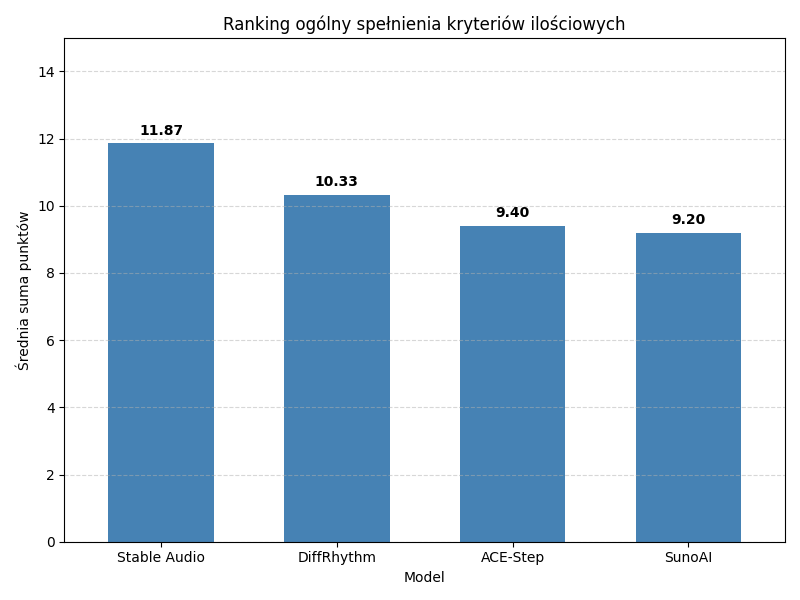
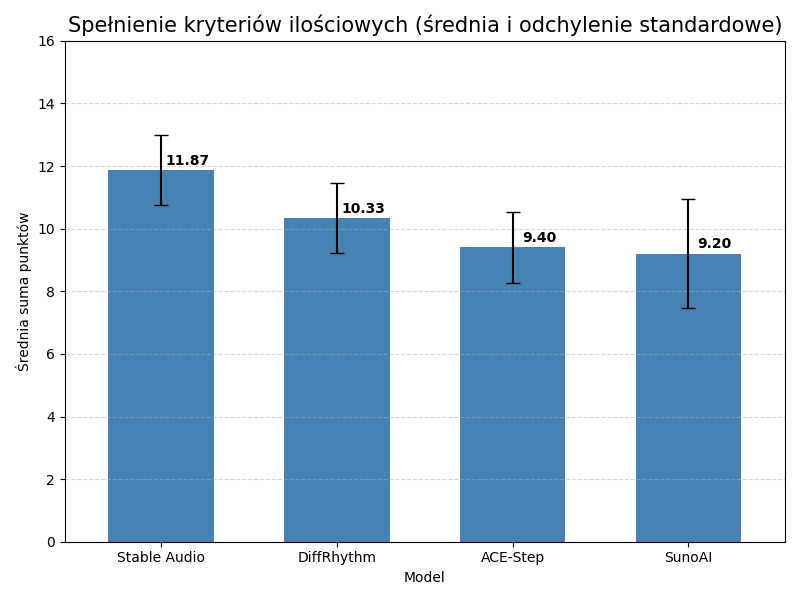
Update wykresów dla czytelności oraz std do słupków średnich

diff --git a/Wykresy.py b/Wykresy.py
@@ -35,10 +35,15 @@ def plot_global_pie_chart(df):
     counts = df.iloc[:, 1:].sum(axis=1)
     labels = df.iloc[:, 0]
     
-    plt.figure(figsize=(8, 8))
-    plt.pie(counts, labels=labels, autopct='%1.1f%%', colors=COLORS_LIKERT, startangle=140)
+    plt.figure(figsize=(4, 4))
+    plt.pie(counts, 
+            labels=labels, 
+            autopct='%1.1f%%', 
+            colors=COLORS_LIKERT, 
+            startangle=140,
+            textprops={'fontsize': 12})
     plt.axis('equal')
-    plt.title('Globalny rozkład ocen')
+    plt.title('Globalny rozkład ocen', fontsize=14, pad=20)
     plt.tight_layout()
     plt.show()
 
@@ -76,17 +81,20 @@ def plot_radar_chart(df_metrics):
     avg_scores = df_radar.groupby(['Aplikacja', 'Kryterium'])['Srednia'].mean().reset_index()
     
     categories = list(avg_scores['Kryterium'].unique())
+    categories.sort(reverse=True)
     N = len(categories)
     
     angles = [n / float(N) * 2 * pi for n in range(N)]
     angles += angles[:1]
     
-    plt.figure(figsize=(10, 10))
+    plt.figure(figsize=(8, 8))
     ax = plt.subplot(111, polar=True)
     
-    plt.xticks(angles[:-1], categories, color='grey', size=10)
-    ax.set_rlabel_position(0)
-    plt.yticks([1, 2, 3, 4, 5], ["1","2","3","4","5"], color="grey", size=7)
+    plt.xticks(angles[:-1], categories, color='black', size=14, fontweight='bold')
+    ax.tick_params(axis='x', pad=10)
+
+    ax.set_rlabel_position(30)
+    plt.yticks([1, 2, 3, 4, 5], ["1","2","3","4","5"], color="grey", size=10)
     plt.ylim(0, 5)
     
     apps = avg_scores['Aplikacja'].unique()
@@ -99,8 +107,8 @@ def plot_radar_chart(df_metrics):
         ax.plot(angles, values, linewidth=2, linestyle='solid', label=app, color=COLORS_APPS[i % len(COLORS_APPS)])
         ax.fill(angles, values, color=COLORS_APPS[i % len(COLORS_APPS)], alpha=0.1)
     
-    plt.legend(loc='upper right', bbox_to_anchor=(0.1, 0.1))
-    plt.title('Profil jakościowy aplikacji (średnie)')
+    plt.legend(loc='upper right', bbox_to_anchor=(1, -0.1), ncol=len(apps), fontsize=11)
+    plt.title('Profil jakościowy aplikacji (średnie)', fontsize=20, pad=15)
     plt.tight_layout()
     plt.show()
 

diff --git a/Wykresy_skrypt.py b/Wykresy_skrypt.py
@@ -28,20 +28,28 @@ def analyze_and_plot(df):
     plt.show()
 
     # --- Ranking slupkowy ---
+    df_stats = df.groupby('Model')['SUMA (0-14)'].agg(['mean', 'std'])
+    df_stats = df_stats.sort_values(by='mean', ascending=False)
+
     plt.figure(figsize=(8, 6))
-    ax = df_total.plot(kind='bar', color='#4682B4', width=0.6)
+    ax = df_stats['mean'].plot(kind='bar', 
+                               yerr=df_stats['std'], 
+                               capsize=5, 
+                               color='#4682B4', 
+                               width=0.6,
+                               rot=0)
     
-    plt.title('Ranking ogólny spełnienia kryteriów ilościowych')
+    plt.title('Spełnienie kryteriów ilościowych (średnia i odchylenie standardowe)', fontsize=15)
     plt.ylabel('Średnia suma punktów')
     plt.xlabel('Model')
-    plt.ylim(0, 15)
+    plt.ylim(0, 16)
     plt.grid(axis='y', linestyle='--', alpha=0.5)
     plt.xticks(rotation=0)
     
     for p in ax.patches:
         ax.annotate(f'{p.get_height():.2f}', 
                     (p.get_x() + p.get_width() / 2., p.get_height()),
-                    ha='center', va='center', xytext=(0, 9), 
+                    ha='center', va='center', xytext=(19, 7), 
                     textcoords='offset points', fontweight='bold')
     
     plt.tight_layout()
